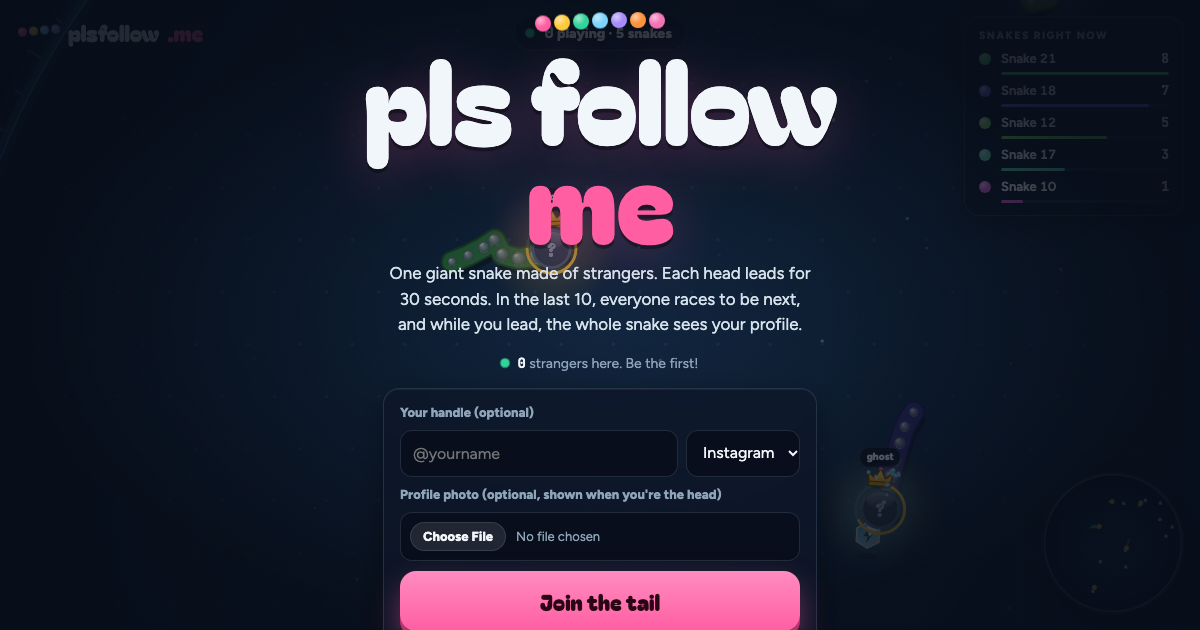
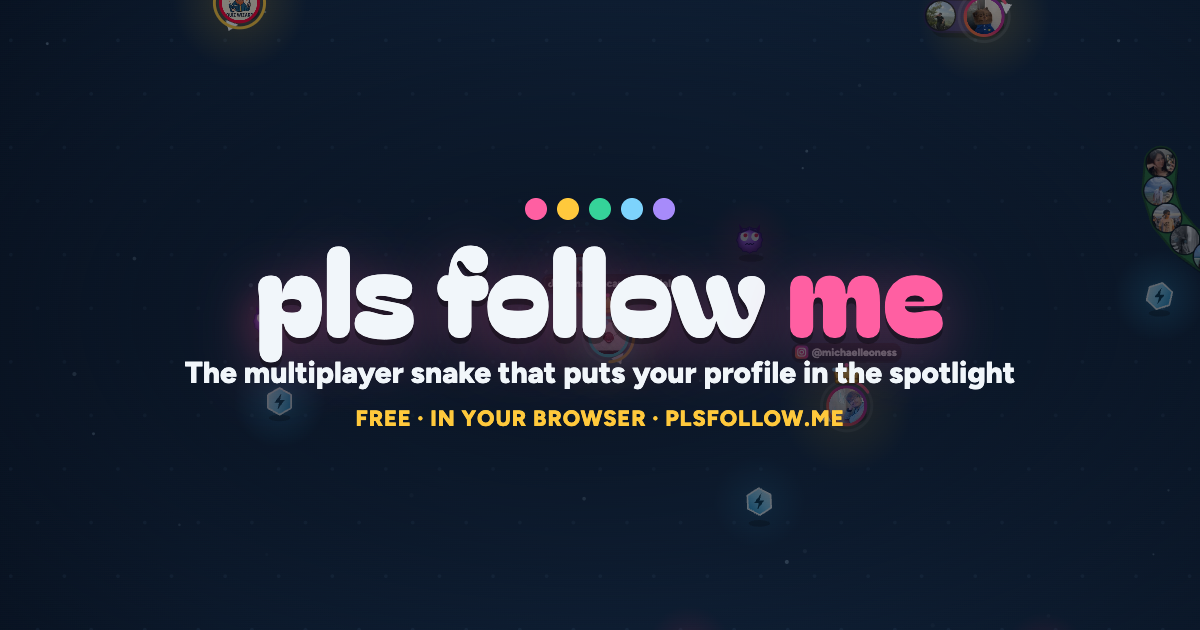
SEO / answer-engine pass: crawlable how-it-works + FAQ, structured data, sitemap
- Title, 157-char description, canonical, robots meta, full Open Graph and
  Twitter tags with a new branded 1200x630 preview image.
- JSON-LD: WebSite, VideoGame (free, browser, multiplayer) and FAQPage that
  matches a visible How it works + FAQ section on the main screen.
- robots.txt (blocks /api, /admin, /a), sitemap.xml, llms.txt summary for AI
  assistants, web app manifest and PNG/apple-touch icons.
- Invite links (/@handle) and API responses send X-Robots-Tag: noindex.

diff --git a/public/index.html b/public/index.html
@@ -3,17 +3,36 @@
 <head>
 <meta charset="utf-8">
 <meta name="viewport" content="width=device-width, initial-scale=1, viewport-fit=cover">
-<title>pls follow me 🐍</title>
-<meta name="description" content="One giant snake made of strangers. Every head leads for 30 seconds, and the whole snake sees their profile.">
+<title>pls follow me · Free multiplayer snake game that puts your profile in the spotlight</title>
+<meta name="description" content="Free multiplayer snake game in your browser. Join a giant snake of strangers, win the tap race to lead for 30 seconds, and get your profile seen by everyone.">
+<meta name="robots" content="index, follow, max-image-preview:large">
+<link rel="canonical" href="https://plsfollow.me/">
 <meta name="theme-color" content="#070d18">
-<meta property="og:title" content="pls follow me 🐍">
-<meta property="og:description" content="One giant snake made of strangers. Take your 30 seconds as the head.">
+<meta name="application-name" content="pls follow me">
+<meta name="apple-mobile-web-app-title" content="pls follow me">
+<meta property="og:site_name" content="plsfollow.me">
+<meta property="og:title" content="pls follow me 🐍 · the multiplayer snake that puts you in the spotlight">
+<meta property="og:description" content="One giant snake made of strangers. Win the tap race, lead for 30 seconds, and the whole snake sees your profile. Free in your browser.">
 <meta property="og:url" content="https://plsfollow.me/">
 <meta property="og:type" content="website">
+<meta property="og:locale" content="en_US">
 <meta property="og:image" content="https://plsfollow.me/og.png">
+<meta property="og:image:width" content="1200">
+<meta property="og:image:height" content="630">
+<meta property="og:image:alt" content="pls follow me: a giant multiplayer snake made of players' profile photos">
 <meta name="twitter:card" content="summary_large_image">
+<meta name="twitter:title" content="pls follow me 🐍 · multiplayer snake game">
+<meta name="twitter:description" content="Join a giant snake of strangers. Lead for 30 seconds and everyone sees your profile. Free in your browser.">
+<meta name="twitter:image" content="https://plsfollow.me/og.png">
 <link rel="icon" href="/favicon.svg" type="image/svg+xml">
+<link rel="icon" href="/icon-192.png" type="image/png" sizes="192x192">
+<link rel="apple-touch-icon" href="/apple-touch-icon.png">
+<link rel="manifest" href="/site.webmanifest">
+<script type="application/ld+json">{"@context": "https://schema.org", "@type": "WebSite", "name": "plsfollow.me", "alternateName": "pls follow me", "url": "https://plsfollow.me/", "description": "Free multiplayer snake game where every player is one segment of a giant snake and each head's social profile gets a 30-second spotlight."}</script>
+<script type="application/ld+json">{"@context": "https://schema.org", "@type": "VideoGame", "name": "pls follow me", "url": "https://plsfollow.me/", "image": "https://plsfollow.me/og.png", "description": "A free browser .io-style multiplayer snake game. Every visitor is one segment of a giant snake; each head leads for 30 seconds while the whole snake sees their Instagram, TikTok, X, Threads, YouTube or Twitch profile. Tap race for the next head, steal people from other snakes, dodge trolls.", "genre": ["Multiplayer", "Arcade", "Snake", "io game"], "gamePlatform": ["Web browser", "iOS", "Android", "Desktop"], "applicationCategory": "Game", "operatingSystem": "Any (web browser)", "playMode": "MultiPlayer", "isAccessibleForFree": true, "inLanguage": "en", "offers": {"@type": "Offer", "price": "0", "priceCurrency": "USD"}}</script>
+<script type="application/ld+json">{"@context": "https://schema.org", "@type": "FAQPage", "mainEntity": [{"@type": "Question", "name": "What is plsfollow.me?", "acceptedAnswer": {"@type": "Answer", "text": "plsfollow.me is a free multiplayer snake game you play in your browser. Every player is one segment of a giant snake made of strangers. Each head leads for 30 seconds, and while you lead, everyone in the snake sees your Instagram, TikTok, X, Threads, YouTube or Twitch profile."}}, {"@type": "Question", "name": "How do I become the head of the snake?", "acceptedAnswer": {"@type": "Answer", "text": "Tap anywhere on the screen during the current leader's 30-second turn. Whoever has the most taps when the timer runs out leads next. If nobody taps, the next person in line leads."}}, {"@type": "Question", "name": "Can plsfollow.me get me more followers?", "acceptedAnswer": {"@type": "Answer", "text": "It gives your profile a spotlight: while you lead, everyone in your snake sees your handle and can open your profile with one tap. Following is always their choice, so there are no follow-for-follow rules and no guaranteed numbers. Today's most-opened profiles appear on the Spotlight board."}}, {"@type": "Question", "name": "Is plsfollow.me free?", "acceptedAnswer": {"@type": "Answer", "text": "Yes. The game is free with no account and no download. The only paid option is \"Become a bot\": for $5, a bot plays as your profile for 30 days and is marked as promoted."}}, {"@type": "Question", "name": "Does it work on phones?", "acceptedAnswer": {"@type": "Answer", "text": "Yes. It runs in any modern mobile or desktop browser. Steer with your finger or mouse, or with the arrow keys and A/D on a keyboard."}}, {"@type": "Question", "name": "What are the purple trolls?", "acceptedAnswer": {"@type": "Answer", "text": "Goblin-like trolls roam the arena. Bump one with your head and you lose 5 seconds of your turn; let one hit your body and your snake breaks in two. A head with no tail that touches a troll is knocked out."}}, {"@type": "Question", "name": "How do I steal people from another snake?", "acceptedAnswer": {"@type": "Answer", "text": "Steer your head into another snake's body. Everyone from that point to the tail joins your snake. Grab a lightning boost to move faster while you hunt."}}, {"@type": "Question", "name": "What happens to my photo and handle?", "acceptedAnswer": {"@type": "Answer", "text": "Your handle, platform and photo are remembered in your own browser so you don't have to re-enter them. Photos you play with are kept on the server only while you're playing."}}]}</script>
 <link rel="preconnect" href="https://fonts.googleapis.com">
+<link rel="preconnect" href="https://fonts.gstatic.com" crossorigin>
 <link rel="stylesheet" href="https://fonts.googleapis.com/css2?family=Bagel+Fat+One&family=Caveat:wght@600;700&family=Instrument+Serif:ital@0;1&family=Figtree:wght@400;600;800;900&family=JetBrains+Mono:wght@500;700&display=swap">
 <style>
 /* Layout: full-bleed toy-arcade arena at night. HUD glass floats at edges; the head's spotlight card is the hero at bottom center. */
@@ -402,6 +421,14 @@ select option { color: #0b1220; background: #fff; }
 .bm-fine { margin: -2px 0 0; color: var(--muted); font-size: 12px; }
 @media (prefers-reduced-motion: reduce) { .bm-snake i, .bm-head, .bm-spark { animation: none; } }
 #botErr { margin: 0; color: #ff8fa3; font-weight: 700; font-size: 14px; }
+#about { width: min(400px, 100%); text-align: left; display: grid; gap: 10px; margin-top: 6px; color: #c9d6e2; padding: 6px 16px 16px; border-radius: 20px; background: rgba(10, 16, 30, .9); border: 1px solid var(--line); backdrop-filter: blur(8px); -webkit-backdrop-filter: blur(8px); }
+#about h2 { margin: 6px 0 0; font-family: var(--display); font-weight: 400; font-size: 20px; color: var(--ink); }
+#about .steps { margin: 0; padding-left: 20px; display: grid; gap: 6px; font-size: 14px; line-height: 1.45; }
+#about .steps b { color: var(--ink); }
+#about .faq { display: grid; gap: 6px; }
+#about details { border: 1px solid var(--line); border-radius: 12px; background: rgba(255,255,255,.05); padding: 0 12px; }
+#about summary { cursor: pointer; padding: 10px 0; font-weight: 800; font-size: 14px; color: var(--ink); list-style-position: inside; }
+#about details p { margin: 0 0 10px; font-size: 13.5px; line-height: 1.5; }
 #joinErr { margin: 0; color: #ff8fa3; font-weight: 700; font-size: 14px; }
 #status.lead.urgent { background: linear-gradient(180deg, #ff8a9e, #f43f5e); color: #2a0610; animation: urgent .6s ease-in-out infinite alternate; }
 @keyframes urgent { to { transform: scale(1.04); box-shadow: 0 8px 30px rgba(244,63,94,.55); } }
@@ -520,6 +547,25 @@ select option { color: #0b1220; background: #fff; }
       <ol id="fameList"></ol>
     </section>
     <small id="introNote">Live right now. Jump in!</small>
+    <section id="about" aria-labelledby="aboutTitle">
+      <h2 id="aboutTitle">How it works</h2>
+      <ol class="steps">
+        <li><b>Join the tail.</b> Add your handle and photo (optional). You're one segment of a giant snake of real people.</li>
+        <li><b>Tap to lead.</b> During each 30-second turn, tap anywhere. Most taps when the timer ends becomes the next head.</li>
+        <li><b>Get seen.</b> While you lead, everyone in the snake sees your profile and can open it with one tap.</li>
+      </ol>
+      <h2>FAQ</h2>
+      <div class="faq">
+        <details><summary>What is plsfollow.me?</summary><p>plsfollow.me is a free multiplayer snake game you play in your browser. Every player is one segment of a giant snake made of strangers. Each head leads for 30 seconds, and while you lead, everyone in the snake sees your Instagram, TikTok, X, Threads, YouTube or Twitch profile.</p></details>
+        <details><summary>How do I become the head of the snake?</summary><p>Tap anywhere on the screen during the current leader's 30-second turn. Whoever has the most taps when the timer runs out leads next. If nobody taps, the next person in line leads.</p></details>
+        <details><summary>Can plsfollow.me get me more followers?</summary><p>It gives your profile a spotlight: while you lead, everyone in your snake sees your handle and can open your profile with one tap. Following is always their choice, so there are no follow-for-follow rules and no guaranteed numbers. Today's most-opened profiles appear on the Spotlight board.</p></details>
+        <details><summary>Is plsfollow.me free?</summary><p>Yes. The game is free with no account and no download. The only paid option is "Become a bot": for $5, a bot plays as your profile for 30 days and is marked as promoted.</p></details>
+        <details><summary>Does it work on phones?</summary><p>Yes. It runs in any modern mobile or desktop browser. Steer with your finger or mouse, or with the arrow keys and A/D on a keyboard.</p></details>
+        <details><summary>What are the purple trolls?</summary><p>Goblin-like trolls roam the arena. Bump one with your head and you lose 5 seconds of your turn; let one hit your body and your snake breaks in two. A head with no tail that touches a troll is knocked out.</p></details>
+        <details><summary>How do I steal people from another snake?</summary><p>Steer your head into another snake's body. Everyone from that point to the tail joins your snake. Grab a lightning boost to move faster while you hunt.</p></details>
+        <details><summary>What happens to my photo and handle?</summary><p>Your handle, platform and photo are remembered in your own browser so you don't have to re-enter them. Photos you play with are kept on the server only while you're playing.</p></details>
+      </div>
+    </section>
   </div>
 </div>
 

diff --git a/server.js b/server.js
@@ -13,6 +13,7 @@ const TYPES = {
   '.html': 'text/html; charset=utf-8', '.js': 'text/javascript; charset=utf-8', '.css': 'text/css; charset=utf-8',
   '.png': 'image/png', '.jpg': 'image/jpeg', '.svg': 'image/svg+xml', '.ico': 'image/x-icon',
   '.json': 'application/json', '.webmanifest': 'application/manifest+json', '.txt': 'text/plain; charset=utf-8',
+  '.xml': 'application/xml; charset=utf-8',
 };
 const CSP = [
   "default-src 'self'",
@@ -36,8 +37,10 @@ const INDEX = (() => {
     return `src="/${name}.js?v=${v}"`;
   });
 })();
-function serveIndex(req, res) {
-  res.writeHead(200, { 'Content-Type': TYPES['.html'], 'Cache-Control': 'no-cache', 'X-Content-Type-Options': 'nosniff', 'Referrer-Policy': 'strict-origin-when-cross-origin', 'Content-Security-Policy': CSP });
+// Invite links (/@handle) show the same page; keep them out of search results so they don't compete
+// with the home page (the page's canonical link points at https://plsfollow.me/ as well)
+function serveIndex(req, res, noindex) {
+  res.writeHead(200, { 'Content-Type': TYPES['.html'], 'Cache-Control': 'no-cache', 'X-Content-Type-Options': 'nosniff', 'Referrer-Policy': 'strict-origin-when-cross-origin', 'Content-Security-Policy': CSP, ...(noindex ? { 'X-Robots-Tag': 'noindex, follow' } : {}) });
   res.end(req.method === 'HEAD' ? undefined : INDEX);
 }
 
@@ -65,7 +68,7 @@ function serveStatic(req, res, pathname) {
 }
 
 // ---------- Paid bots: checkout, Stripe webhook, order status, admin ----------
-const json = (res, code, obj) => { res.writeHead(code, { 'Content-Type': 'application/json', 'Cache-Control': 'no-store' }); res.end(JSON.stringify(obj)); };
+const json = (res, code, obj) => { res.writeHead(code, { 'Content-Type': 'application/json', 'Cache-Control': 'no-store', 'X-Robots-Tag': 'noindex' }); res.end(JSON.stringify(obj)); };
 function readBody(req, limit) {
   return new Promise((resolve, reject) => {
     let size = 0; const chunks = [];
@@ -136,7 +139,8 @@ const server = http.createServer((req, res) => {
     return;
   }
   // Invite links like /@kirk.plays load the game with that friend prefilled
-  if (pathname === '/' || pathname === '/index.html' || /^\/@[A-Za-z0-9._-]{1,30}$/.test(pathname)) { serveIndex(req, res); return; }
+  if (pathname === '/' || pathname === '/index.html') { serveIndex(req, res, false); return; }
+  if (/^\/@[A-Za-z0-9._-]{1,30}$/.test(pathname)) { serveIndex(req, res, true); return; }
   serveStatic(req, res, pathname);
 });
 
